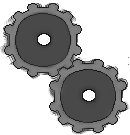
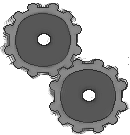
devinez ce qui a changé

diff --git a/PanelMenu.java b/PanelMenu.java
@@ -163,7 +163,7 @@ public class PanelMenu extends JPanel
             g.drawImage(Slatch.aImages.get("boutontutoriel"+aImages.get("boutontutoriel")), this.getWidth()/2-2*aHauteurBouton, 33+ 4*this.getHeight()/8, 4*aHauteurBouton,aHauteurBouton, this);
             g.drawImage(Slatch.aImages.get("boutonmapcreator"+aImages.get("boutonmapcreator")), this.getWidth()/2-2*aHauteurBouton, 33+ 5*this.getHeight()/8, 4*aHauteurBouton,aHauteurBouton, this);
             g.drawImage(Slatch.aImages.get("boutoncredits"+aImages.get("boutoncredits")), this.getWidth()/2-2*aHauteurBouton, 33+ 6*this.getHeight()/8, 4*aHauteurBouton,aHauteurBouton, this);
-            g.drawImage(Slatch.aImages.get("engrenage"+aImages.get("engrenage")), this.getWidth()-aHauteurBouton/2-this.getHeight()/15,aHauteurBouton/2,this.getHeight()/10,this.getHeight()/10, this);            
+            g.drawImage(Slatch.aImages.get("engrenage"+aImages.get("engrenage")), this.getWidth()-aHauteurBouton/2-this.getHeight()/10,aHauteurBouton/2,this.getHeight()/10,this.getHeight()/10, this);            
             
         }
         
@@ -805,7 +805,8 @@ public class PanelMenu extends JPanel
         if(aImages.get("boutontutoriel")!=""){aImages.put("boutontutoriel","");}
         if(aImages.get("boutonmapcreator")!=""){aImages.put("boutonmapcreator","");}
         if(aImages.get("boutoncredits")!=""){aImages.put("boutoncredits","");}
-         if(aImages.get("boutonexp")!=""){aImages.put("boutonexp","");}
+        if(aImages.get("boutonexp")!=""){aImages.put("boutonexp","");}
+        if(aImages.get("engrenage")!=""){aImages.put("engrenage","");}
         
         
         if(aMenuPrincipal){
@@ -823,6 +824,9 @@ public class PanelMenu extends JPanel
             }
             if(pX>this.getWidth()/2-2*aHauteurBouton && pY>33+ 6*this.getHeight()/8 && pX<this.getWidth()/2-2*aHauteurBouton+4*aHauteurBouton && pY<33+ 6*this.getHeight()/8+aHauteurBouton){
                 aImages.put("boutoncredits","on");
+            }
+            if(pX>this.getWidth()-aHauteurBouton/2-this.getHeight()/10 && pY>aHauteurBouton/2 && pX<this.getWidth()-aHauteurBouton/2 && pY<aHauteurBouton/2+this.getHeight()/10){
+                aImages.put("engrenage","on");
             }
         }
         

diff --git a/Slatch.java b/Slatch.java
@@ -402,6 +402,9 @@ public class Slatch {
                 image = ImageIO.read(getClass().getClassLoader().getResource("Images/engrenage.png"));
                 aImages.put("engrenage",image);
                 
+                image = ImageIO.read(getClass().getClassLoader().getResource("Images/engrenageon.png"));
+                aImages.put("engrenageon",image);
+                
                 image = ImageIO.read(getClass().getClassLoader().getResource("Images/menu/wallpaper.png"));
                 aImages.put("wallpaper",image);
                 
